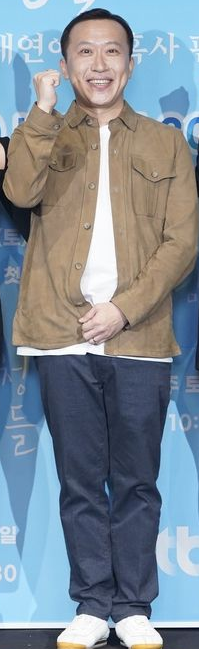
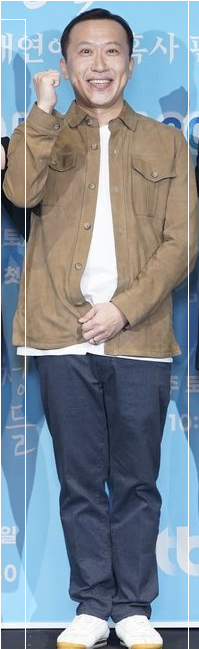
update

Changed region(s): [[0.9347, 0.0, 0.9648, 1.0], [0.0, 0.0, 0.0302, 1.0], [0.1206, 0.0308, 0.1508, 1.0]]

diff --git a/f.py b/f.py
@@ -9,10 +9,23 @@ results.save()
 result = results.pandas().xyxy[0].to_numpy()
 result = [item for item in result if item[6]=='person']
 
-tmp_img = cv2.imread('Untitled.jpeg')
+tmp_img = cv2.imread('result.png')
 print(tmp_img.shape)
-cropped = tmp_img[int(result[0][1]):int(result[0][3]), int(result[0][0]):int(result[0][2])]
-print(cropped.shape)
-cv2.imwrite('people2.png', cropped)
+cropped0 = tmp_img[int(result[0][1]):int(result[0][3]), int(result[0][0]):int(result[0][2])]
+cropped1 = tmp_img[int(result[1][1]):int(result[1][3]), int(result[1][0]):int(result[1][2])]
+cropped2 = tmp_img[int(result[2][1]):int(result[2][3]), int(result[2][0]):int(result[2][2])]
+cropped3 = tmp_img[int(result[3][1]):int(result[3][3]), int(result[3][0]):int(result[3][2])]
+cropped4 = tmp_img[int(result[4][1]):int(result[4][3]), int(result[4][0]):int(result[4][2])]
+
+cv2.imwrite('people1.png', cropped0)
+cv2.imwrite('people2.png', cropped1)
+cv2.imwrite('people3.png', cropped2)
+cv2.imwrite('people4.png', cropped3)
+cv2.imwrite('people5.png', cropped4)
+
 cv2.rectangle(tmp_img, (int(results.xyxy[0][0][0].item()), int(results.xyxy[0][0][1].item())), (int(results.xyxy[0][0][2].item()), int(results.xyxy[0][0][3].item())), (255,255,255))
+cv2.rectangle(tmp_img, (int(results.xyxy[0][1][0].item()), int(results.xyxy[0][1][1].item())), (int(results.xyxy[0][1][2].item()), int(results.xyxy[0][1][3].item())), (255,255,255))
+cv2.rectangle(tmp_img, (int(results.xyxy[0][2][0].item()), int(results.xyxy[0][2][1].item())), (int(results.xyxy[0][2][2].item()), int(results.xyxy[0][2][3].item())), (255,255,255))
+cv2.rectangle(tmp_img, (int(results.xyxy[0][3][0].item()), int(results.xyxy[0][3][1].item())), (int(results.xyxy[0][3][2].item()), int(results.xyxy[0][3][3].item())), (255,255,255))
+cv2.rectangle(tmp_img, (int(results.xyxy[0][4][0].item()), int(results.xyxy[0][4][1].item())), (int(results.xyxy[0][4][2].item()), int(results.xyxy[0][4][3].item())), (255,255,255))
 cv2.imwrite('result.png', tmp_img)

diff --git a/a.py b/a.py
@@ -9,5 +9,9 @@ print(results.xyxy[0], results.xyxy[0][0][0].item())  # img1 predictions (tensor
 print(results.pandas().xyxy[0])  # img1 predictions (pandas)
 
 tmp_img = cv2.imread('untitled.jpeg')
-cv2.rectangle(tmp_img, (int(results.xyxy[0][0][2].item()), int(results.xyxy[0][0][1].item())), (int(results.xyxy[0][0][3].item()), int(results.xyxy[0][0][3].item())), (255,255,255))
+cv2.rectangle(tmp_img, (int(results.xyxy[0][0][0].item()), int(results.xyxy[0][0][1].item())), (int(results.xyxy[0][0][2].item()), int(results.xyxy[0][0][3].item())), (255,255,255))
+cv2.rectangle(tmp_img, (int(results.xyxy[0][1][0].item()), int(results.xyxy[0][1][1].item())), (int(results.xyxy[0][1][2].item()), int(results.xyxy[0][1][3].item())), (255,255,255))
+cv2.rectangle(tmp_img, (int(results.xyxy[0][2][0].item()), int(results.xyxy[0][2][1].item())), (int(results.xyxy[0][2][2].item()), int(results.xyxy[0][2][3].item())), (255,255,255))
+cv2.rectangle(tmp_img, (int(results.xyxy[0][3][0].item()), int(results.xyxy[0][3][1].item())), (int(results.xyxy[0][3][2].item()), int(results.xyxy[0][3][3].item())), (255,255,255))
+cv2.rectangle(tmp_img, (int(results.xyxy[0][4][0].item()), int(results.xyxy[0][4][1].item())), (int(results.xyxy[0][4][2].item()), int(results.xyxy[0][4][3].item())), (255,255,255))
 cv2.imwrite('result.png', tmp_img)
